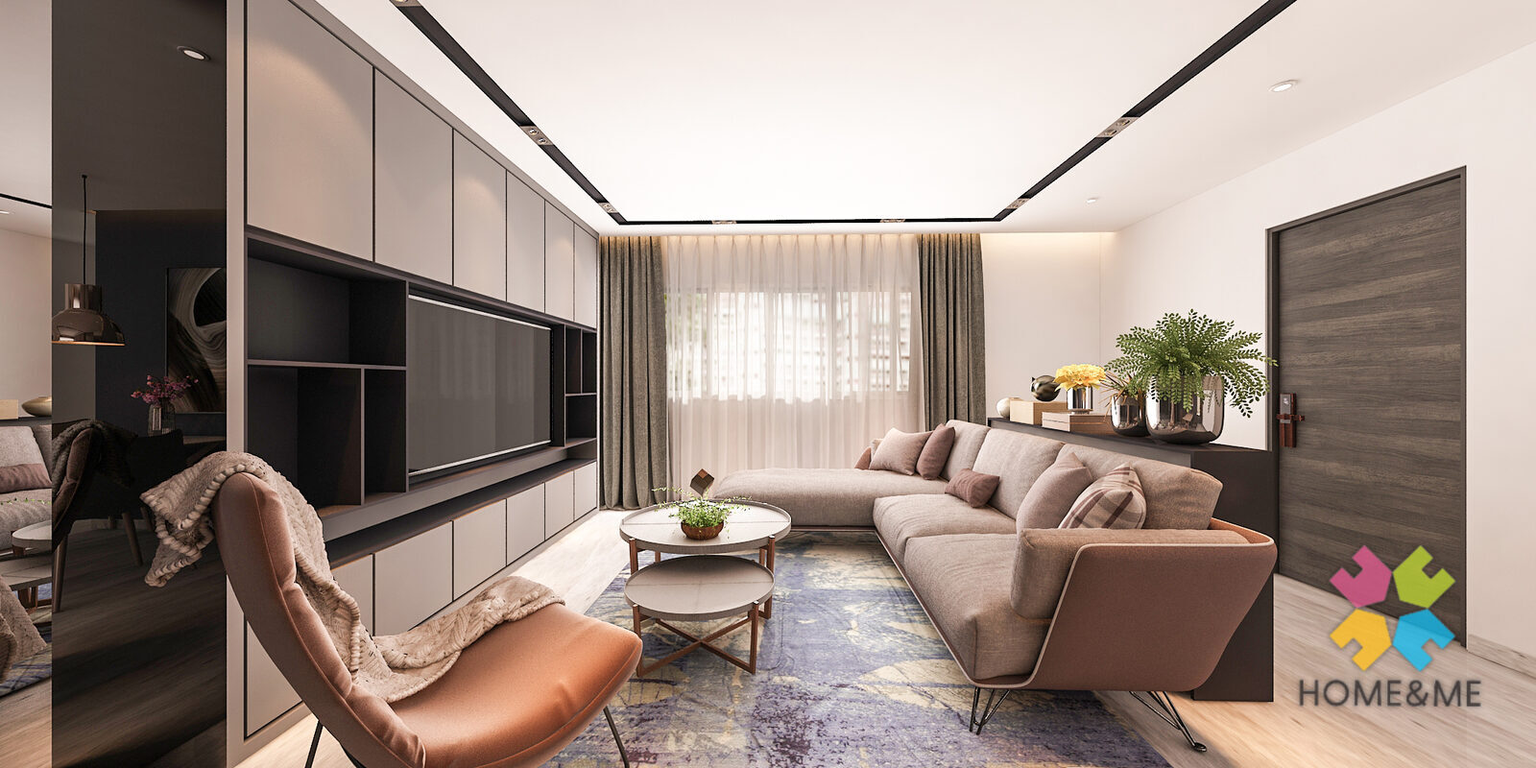
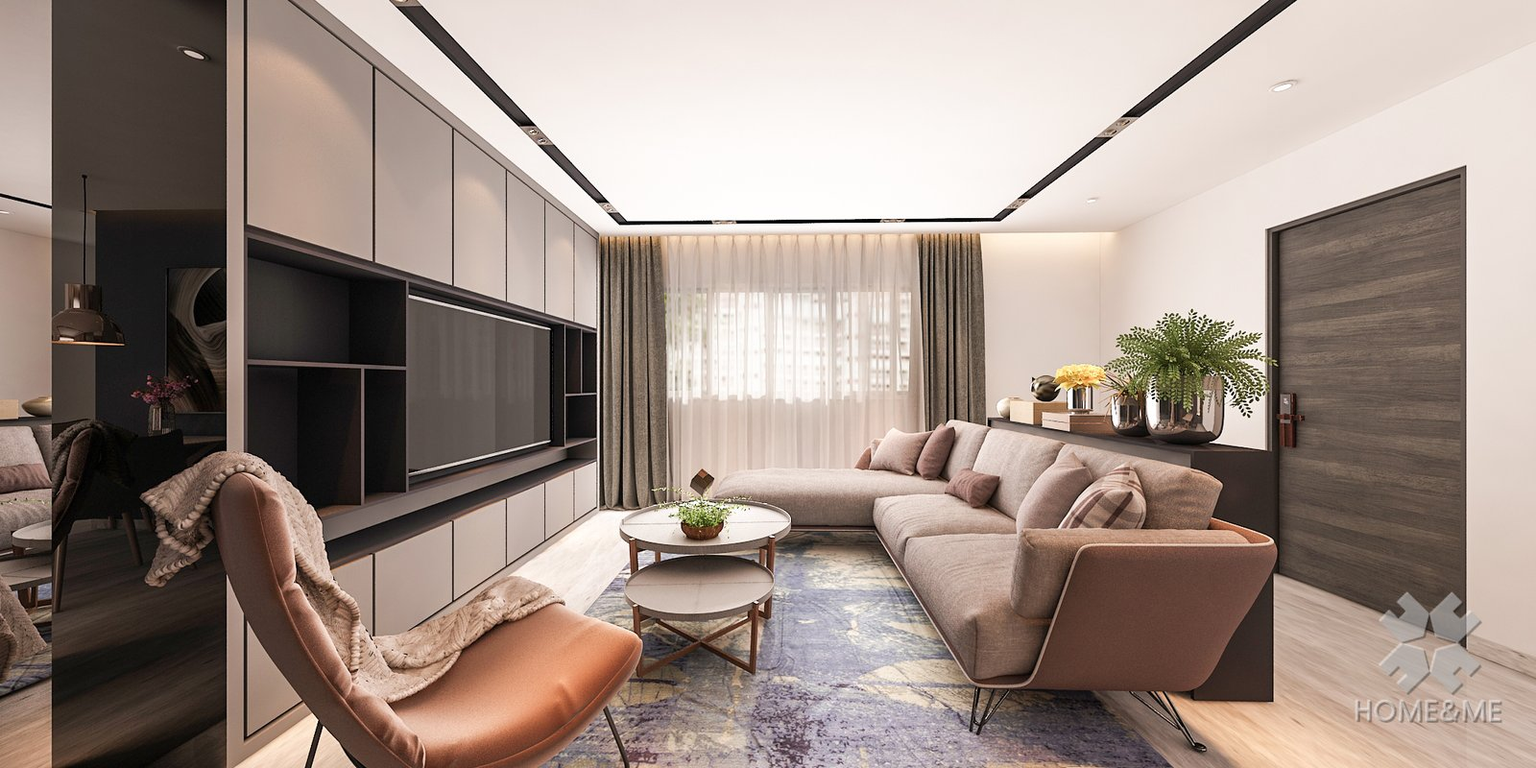
Owner-approved survey fixes: monochrome watermark re-exports, clean bright hero, edited portfolio grid, phone CTA fix, scroll-built quote (no prices)
- All 27 project renders re-exported from the clean originals with the
  HOME&ME mark in monochrome white (owner: logo colours stay rainbow only
  in the logo itself; photos carry a black-and-white mark).
- Homepage banner: new clean hero export (no mark, no lit TV) from the
  Minimalist 5-room living hall, left-scrim gradient for the headline.
- Our Work: masonry replaced with an edited grid — three featured projects
  at twice the width, labels overlay the photo, lightbox unchanged.
- Phone: floating UPLOAD pill removed (tab bar is the one CTA), footer
  cleared above the tab bar, trades ticker slowed.
- New section 03: an itemised quote that assembles line by line on scroll,
  each line naming the trade — deliberately WITHOUT prices; copy explains
  prices arrive in the personal quote (owner instruction).
- How-it-works steps tick active as you scroll past them.

Claude-Session: https://claude.ai/code/session_01VizHzKSGzcaXzW7CxuiNko

Changed region(s): [[0.8438, 0.7188, 1.0, 0.9375]]

diff --git a/Home Direct.dc.html b/Home Direct.dc.html
@@ -34,9 +34,23 @@ a { color: #14191b; text-decoration: none; } a:hover { color: #5a7e8a; }
 @media (max-width: 1100px) { [data-masonry] { column-count: 2 !important; } }
 @media (max-width: 700px) {
   [data-herofoot] { grid-template-columns: 1fr !important; }
-  [data-mobilecta] { display: flex !important; }
   [data-tabbar] { display: grid !important; }
-  [data-masonry] { column-count: 1 !important; }
+  footer { padding-bottom: 96px !important; }
+}
+[data-workgrid] { display: grid; grid-template-columns: repeat(6, 1fr); gap: 20px; grid-auto-flow: dense; }
+[data-tile] { grid-column: span 2; }
+[data-tile][data-span="feat"] { grid-column: span 4; }
+@media (max-width: 1100px) {
+  [data-tile] { grid-column: span 3 !important; }
+  [data-tile][data-span="feat"] { grid-column: span 6 !important; }
+}
+@media (max-width: 700px) {
+  [data-tile] { grid-column: span 6 !important; }
+}
+@media (hover: hover) {
+  [data-cap] { opacity: 0; transform: translateY(6px); }
+  [data-tile]:hover [data-cap] { opacity: 1; transform: none; }
+  [data-tile]:focus-within [data-cap] { opacity: 1; transform: none; }
 }
 </style>
 </helmet>
@@ -74,8 +88,9 @@ a { color: #14191b; text-decoration: none; } a:hover { color: #5a7e8a; }
   </sc-if>
 
   <section id="top" style="position: relative; min-height: min(94vh, 940px); background: #14191b; overflow: hidden; display: flex; flex-direction: column; justify-content: flex-end;">
-    <img src="assets/portfolio/contemporary-3-room-hdb-design-01-living-hall.jpg" alt="Home &amp; Me living and dining project" style="position: absolute; inset: 0; width: 100%; height: 100%; object-fit: cover; opacity: 0.62;">
-    <div style="position: absolute; inset: 0; background: linear-gradient(102deg, rgba(20,25,27,0.95) 0%, rgba(20,25,27,0.78) 38%, rgba(20,25,27,0.22) 78%, rgba(20,25,27,0.35) 100%);"></div>
+    <img src="assets/portfolio/hero-minimalist-living.jpg" alt="Minimalist 5-room HDB living hall — a Home &amp; Me project" style="position: absolute; inset: 0; width: 100%; height: 100%; object-fit: cover; opacity: 0.96;">
+    <div style="position: absolute; inset: 0; background: linear-gradient(96deg, rgba(20,25,27,0.92) 0%, rgba(20,25,27,0.78) 34%, rgba(20,25,27,0.34) 62%, rgba(20,25,27,0.1) 100%);"></div>
+    <div style="position: absolute; inset: auto 0 0 0; height: 46%; background: linear-gradient(to top, rgba(20,25,27,0.82), rgba(20,25,27,0));"></div>
     <div style="position: relative; max-width: 1360px; width: 100%; margin: 0 auto; padding: 168px clamp(16px, 4vw, 44px) 0; box-sizing: border-box;">
       <p style="font-family: 'Oswald', sans-serif; font-size: 11px; letter-spacing: 3.8px; color: #a9c4cc; margin: 0 0 30px; display: flex; align-items: center; gap: 14px;"><span style="width: 44px; height: 1px; background: #a9c4cc;"></span>DIRECT CONTRACTOR RENOVATION · SINGAPORE</p>
       <h1 style="font-family: 'Instrument Serif', Georgia, serif; font-weight: 400; font-size: clamp(44px, 8.2vw, 112px); line-height: 0.97; letter-spacing: -1.5px; margin: 0 0 28px; color: #f6f4ef; max-width: 15ch; animation: hnmRise 1s ease both;">Quoted by the people <em style="font-style: italic; color: #a9c4cc;">doing the work.</em></h1>
@@ -85,7 +100,7 @@ a { color: #14191b; text-decoration: none; } a:hover { color: #5a7e8a; }
         <a href="#how" style="font-family: 'Oswald', sans-serif; letter-spacing: 2.4px; font-size: 13px; color: #f6f4ef; border: 1px solid rgba(246,244,239,0.38); padding: 19px 32px; border-radius: 999px;" style-hover="border-color: #f6f4ef; background: rgba(246,244,239,0.1);">HOW IT WORKS</a>
       </div>
     </div>
-    <div data-herofoot="1" style="position: relative; max-width: 1360px; width: 100%; margin: 0 auto; padding: 64px clamp(16px, 4vw, 44px) 40px; box-sizing: border-box; display: grid; grid-template-columns: repeat(3, 1fr); gap: 1px; background: rgba(246,244,239,0.16);">
+    <div data-herofoot="1" style="position: relative; max-width: 1360px; width: 100%; margin: 0 auto; padding: 64px clamp(16px, 4vw, 44px) 40px; box-sizing: border-box; display: grid; grid-template-columns: repeat(3, 1fr); gap: 1px;">
       <sc-for list="{{ proof }}" as="p" hint-placeholder-count="3">
         <div style="background: #14191b; padding: 26px 24px 4px; display: flex; flex-direction: column; gap: 9px;">
           <span style="font-family: 'Instrument Serif', Georgia, serif; font-size: 30px; line-height: 1; color: #f6f4ef;">{{ p.head }}</span>
@@ -96,7 +111,7 @@ a { color: #14191b; text-decoration: none; } a:hover { color: #5a7e8a; }
   </section>
 
   <div style="background: #5a7e8a; overflow: hidden; padding: 15px 0; border-bottom: 1px solid rgba(20,25,27,0.12);">
-    <div data-marquee="1" style="display: flex; width: max-content; animation: hnmMarquee 44s linear infinite;">
+    <div data-marquee="1" style="display: flex; width: max-content; animation: hnmMarquee 62s linear infinite;">
       <sc-for list="{{ tickerRows }}" as="row" hint-placeholder-count="2">
         <div style="display: flex; align-items: center; gap: 34px; padding-right: 34px;">
           <sc-for list="{{ row.items }}" as="t" hint-placeholder-count="12">
@@ -182,8 +197,8 @@ a { color: #14191b; text-decoration: none; } a:hover { color: #5a7e8a; }
       </div>
       <div style="display: grid; grid-template-columns: repeat(auto-fit, minmax(232px, 1fr)); gap: 1px; background: rgba(20,25,27,0.13); border-top: 1px solid rgba(20,25,27,0.13);">
         <sc-for list="{{ how }}" as="s" hint-placeholder-count="5">
-          <div data-reveal="1" style="background: #fdfcfa; padding: 28px 22px 34px; display: flex; flex-direction: column; gap: 12px; border-bottom: 1px solid rgba(20,25,27,0.13);">
-            <span style="font-family: 'Instrument Serif', Georgia, serif; font-size: 42px; line-height: 1; color: #5a7e8a;">{{ s.no }}</span>
+          <div data-reveal="1" data-howcard="{{ s.i }}" style="background: #fdfcfa; padding: 28px 22px 34px; display: flex; flex-direction: column; gap: 12px; border-bottom: 2px solid {{ s.edge }}; transition: border-color 0.6s ease;">
+            <span style="font-family: 'Instrument Serif', Georgia, serif; font-size: 42px; line-height: 1; color: {{ s.numFg }}; transition: color 0.6s ease;">{{ s.no }}</span>
             <span style="font-family: 'Oswald', sans-serif; font-size: 13.5px; letter-spacing: 1.8px; color: #14191b;">{{ s.title }}</span>
             <span style="font-size: 14.5px; line-height: 1.62; color: #4a5350; text-wrap: pretty;">{{ s.body }}</span>
           </div>
@@ -196,13 +211,46 @@ a { color: #14191b; text-decoration: none; } a:hover { color: #5a7e8a; }
     </div>
   </section>
 
+  <section id="quote" style="background: #14191b; color: #f6f4ef; padding: clamp(60px, 9vw, 124px) clamp(16px, 4vw, 44px); scroll-margin-top: 78px;">
+    <div data-two="1" style="max-width: 1360px; margin: 0 auto; display: grid; grid-template-columns: 0.9fr 1.1fr; gap: clamp(30px, 5vw, 76px);">
+      <div data-sticky="1" style="position: sticky; top: 130px; align-self: start; min-width: 0;">
+        <span style="font-family: 'Instrument Serif', Georgia, serif; font-size: clamp(64px, 8vw, 104px); line-height: 0.85; color: rgba(246,244,239,0.16); display: block; margin-bottom: 18px;">03</span>
+        <p style="font-family: 'Oswald', sans-serif; font-size: 11px; letter-spacing: 3.6px; color: #a9c4cc; margin: 0 0 20px;">WHAT YOU'LL RECEIVE</p>
+        <h2 style="font-family: 'Instrument Serif', Georgia, serif; font-weight: 400; font-size: clamp(30px, 4.4vw, 54px); line-height: 1.06; letter-spacing: -0.6px; margin: 0 0 20px;">Watch your quote build itself.</h2>
+        <p style="font-size: 16.5px; line-height: 1.68; color: rgba(246,244,239,0.72); margin: 0; max-width: 44ch; text-wrap: pretty;">Keep scrolling — each line of an itemised quote arrives with the trade doing that work named against it. This is the format every Home &amp; Me quote takes.</p>
+        <div style="margin-top: 30px; max-width: 340px;">
+          <p style="font-family: 'Oswald', sans-serif; font-size: 11px; letter-spacing: 2.6px; color: #a9c4cc; margin: 0 0 12px;">{{ qCount }}</p>
+          <div style="height: 2px; background: rgba(246,244,239,0.16); border-radius: 2px; overflow: hidden;">
+            <div style="height: 100%; width: {{ qBar }}; background: #a9c4cc; transition: width 0.7s ease;"></div>
+          </div>
+        </div>
+      </div>
+      <div style="min-width: 0;">
+        <sc-for list="{{ qlines }}" as="l" hint-placeholder-count="5">
+          <div data-qline="{{ l.i }}" style="border-left: 2px solid {{ l.edge }}; opacity: {{ l.op }}; transform: {{ l.ty }}; transition: opacity 0.7s ease, transform 0.7s ease, border-color 0.7s ease; padding: 22px 0 22px 24px; border-bottom: 1px solid rgba(246,244,239,0.12); display: grid; gap: 7px;">
+            <div style="display: flex; justify-content: space-between; gap: 14px; align-items: baseline; flex-wrap: wrap;">
+              <span style="font-family: 'Oswald', sans-serif; font-size: 13.5px; letter-spacing: 2px; color: #f6f4ef;">{{ l.trade }}</span>
+              <span style="font-family: 'Oswald', sans-serif; font-size: 10px; letter-spacing: 2px; color: #a9c4cc; border: 1px solid rgba(169,196,204,0.4); border-radius: 999px; padding: 5px 11px; white-space: nowrap;">{{ l.who }}</span>
+            </div>
+            <span style="font-size: 14.5px; line-height: 1.6; color: rgba(246,244,239,0.66);">{{ l.scope }}</span>
+          </div>
+        </sc-for>
+        <div style="margin-top: 26px; border: 1px solid rgba(169,196,204,0.35); border-radius: 5px; padding: 26px 26px 30px; background: linear-gradient(150deg, rgba(90,126,138,0.16), rgba(90,126,138,0.04)); opacity: {{ qDoneOp }}; transition: opacity 0.8s ease;">
+          <p style="font-size: 16.5px; line-height: 1.6; color: #f6f4ef; margin: 0 0 10px;">Every line arrives priced — in your quote, not on this page.</p>
+          <p style="font-size: 14.5px; line-height: 1.66; color: rgba(246,244,239,0.66); margin: 0 0 22px; text-wrap: pretty;">An honest number depends on your unit, its condition and your materials, so we don't publish rates that would be wrong for you. Upload your floor plan and the contractor prices these exact lines for your flat — free, and itemised.</p>
+          <a href="Renovation%20Enquiry.dc.html" style="font-family: 'Oswald', sans-serif; letter-spacing: 2.4px; font-size: 12.5px; background: #f6f4ef; color: #14191b; padding: 16px 30px; border-radius: 999px; display: inline-block;" style-hover="background: #5a7e8a; color: #fff;">GET MY ITEMISED QUOTE</a>
+        </div>
+      </div>
+    </div>
+  </section>
+
   <section id="portfolio" style="padding: clamp(60px, 9vw, 120px) 0 clamp(56px, 8vw, 104px); scroll-margin-top: 78px;">
     <div data-reveal="1" style="max-width: 1360px; margin: 0 auto; padding: 0 clamp(16px, 4vw, 44px) clamp(30px, 4vw, 46px); display: flex; align-items: flex-end; justify-content: space-between; gap: 28px; flex-wrap: wrap;">
       <div style="max-width: 640px;">
-        <span style="font-family: 'Instrument Serif', Georgia, serif; font-size: clamp(64px, 8vw, 104px); line-height: 0.85; color: rgba(20,25,27,0.14); display: block; margin-bottom: 18px;">03</span>
+        <span style="font-family: 'Instrument Serif', Georgia, serif; font-size: clamp(64px, 8vw, 104px); line-height: 0.85; color: rgba(20,25,27,0.14); display: block; margin-bottom: 18px;">04</span>
         <p style="font-family: 'Oswald', sans-serif; font-size: 11px; letter-spacing: 3.6px; color: #5a7e8a; margin: 0 0 20px;">OUR WORK</p>
         <h2 style="font-family: 'Instrument Serif', Georgia, serif; font-weight: 400; font-size: clamp(30px, 4.4vw, 54px); line-height: 1.06; letter-spacing: -0.6px; margin: 0 0 16px;">The work we have done.</h2>
-        <p style="font-size: 16px; line-height: 1.66; color: #4a5350; margin: 0; max-width: 48ch; text-wrap: pretty;">Home &amp; Me projects, by room. Click any one to see it full size — or start your enquiry in that style straight from the caption.</p>
+        <p style="font-size: 16px; line-height: 1.66; color: #4a5350; margin: 0; max-width: 48ch; text-wrap: pretty;">Home &amp; Me projects, by room. Click any one to see it full size and start your enquiry in that exact style.</p>
       </div>
       <span style="font-family: 'Oswald', sans-serif; font-size: 11px; letter-spacing: 2.6px; color: #8a908c; border: 1px solid rgba(20,25,27,0.2); border-radius: 999px; padding: 10px 18px;">{{ galleryCount }}</span>
     </div>
@@ -212,17 +260,16 @@ a { color: #14191b; text-decoration: none; } a:hover { color: #5a7e8a; }
           <button type="button" onClick="{{ c.pick }}" style="cursor: pointer; font-family: 'Oswald', sans-serif; font-size: 11px; letter-spacing: 2.2px; padding: 11px 19px; border-radius: 999px; background: {{ c.bg }}; color: {{ c.fg }}; border: 1px solid {{ c.border }};">{{ c.label }}</button>
         </sc-for>
       </div>
-      <div data-masonry="1" style="column-count: 3; column-gap: 20px;">
+      <div data-workgrid="1">
         <sc-for list="{{ gallery }}" as="g" hint-placeholder-count="6">
-          <div style="break-inside: avoid; margin: 0 0 20px; border: 1px solid rgba(20,25,27,0.13); border-radius: 5px; overflow: hidden; background: #fdfcfa;">
-            <button type="button" onClick="{{ g.open }}" title="View full size" style="display: block; width: 100%; padding: 0; border: none; background: #e7e2d8; cursor: zoom-in; overflow: hidden; line-height: 0;">{{ g.photo }}</button>
-            <div style="padding: 15px 17px 17px; display: flex; align-items: baseline; justify-content: space-between; gap: 12px; flex-wrap: wrap;">
-              <span style="display: flex; flex-direction: column; gap: 5px; min-width: 0;">
-                <span style="font-family: 'Oswald', sans-serif; font-size: 12.5px; letter-spacing: 1.8px; color: #14191b;">{{ g.room }}</span>
-                <span style="font-size: 13px; color: #8a908c;">{{ g.style }}</span>
+          <div data-tile="1" data-span="{{ g.span }}" style="border: 1px solid rgba(20,25,27,0.13); border-radius: 5px; overflow: hidden; background: #fdfcfa; min-width: 0;">
+            <button type="button" onClick="{{ g.open }}" title="View full size" style="display: block; position: relative; width: 100%; height: 100%; min-height: 100%; aspect-ratio: 2 / 1; padding: 0; border: none; background: #e7e2d8; cursor: zoom-in; overflow: hidden; line-height: 0;">
+              {{ g.photo }}
+              <span data-cap="1" style="position: absolute; inset: auto 0 0 0; padding: 44px 16px 13px; background: linear-gradient(to top, rgba(20,25,27,0.8), rgba(20,25,27,0)); display: flex; align-items: baseline; justify-content: space-between; gap: 12px; line-height: 1.4; transition: opacity 0.45s ease, transform 0.45s ease; text-align: left;">
+                <span style="font-family: 'Oswald', sans-serif; font-size: 12px; letter-spacing: 1.8px; color: #f6f4ef;">{{ g.room }}</span>
+                <span style="font-size: 12.5px; color: rgba(246,244,239,0.78); white-space: nowrap;">{{ g.style }}</span>
               </span>
-              <a sc-camel-href="{{ g.href }}" style="font-family: 'Oswald', sans-serif; font-size: 10px; letter-spacing: 2px; color: #5a7e8a; white-space: nowrap;" style-hover="color: #14191b;">START THIS STYLE →</a>
-            </div>
+            </button>
           </div>
         </sc-for>
       </div>
@@ -232,7 +279,7 @@ a { color: #14191b; text-decoration: none; } a:hover { color: #5a7e8a; }
   <section id="coordinator" style="background: #14191b; color: #f6f4ef; padding: clamp(60px, 9vw, 124px) clamp(16px, 4vw, 44px); scroll-margin-top: 78px;">
     <div data-two="1" style="max-width: 1360px; margin: 0 auto; display: grid; grid-template-columns: 1.08fr 0.92fr; gap: clamp(32px, 5vw, 70px); align-items: center;">
       <div data-reveal="1" style="min-width: 0;">
-        <span style="font-family: 'Instrument Serif', Georgia, serif; font-size: clamp(64px, 8vw, 104px); line-height: 0.85; color: rgba(246,244,239,0.16); display: block; margin-bottom: 18px;">04</span>
+        <span style="font-family: 'Instrument Serif', Georgia, serif; font-size: clamp(64px, 8vw, 104px); line-height: 0.85; color: rgba(246,244,239,0.16); display: block; margin-bottom: 18px;">05</span>
         <p style="font-family: 'Oswald', sans-serif; font-size: 11px; letter-spacing: 3.6px; color: #a9c4cc; margin: 0 0 20px;">OPTIONAL ADD-ON</p>
         <h2 style="font-family: 'Instrument Serif', Georgia, serif; font-weight: 400; font-size: clamp(30px, 4.4vw, 54px); line-height: 1.06; letter-spacing: -0.6px; margin: 0 0 20px;">Hire a project coordinator.</h2>
         <p style="font-size: 16.5px; line-height: 1.68; color: rgba(246,244,239,0.72); margin: 0 0 30px; max-width: 46ch; text-wrap: pretty;">Going direct means you hold the schedule. If you would rather not, one of ours holds it — and you still see the contractor's own quote.</p>
@@ -269,7 +316,7 @@ a { color: #14191b; text-decoration: none; } a:hover { color: #5a7e8a; }
   <section id="faq" style="padding: clamp(60px, 9vw, 120px) clamp(16px, 4vw, 44px); scroll-margin-top: 78px;">
     <div style="max-width: 1360px; margin: 0 auto;">
       <div data-reveal="1" style="margin-bottom: clamp(32px, 4vw, 52px);">
-        <span style="font-family: 'Instrument Serif', Georgia, serif; font-size: clamp(64px, 8vw, 104px); line-height: 0.85; color: rgba(20,25,27,0.14); display: block; margin-bottom: 18px;">05</span>
+        <span style="font-family: 'Instrument Serif', Georgia, serif; font-size: clamp(64px, 8vw, 104px); line-height: 0.85; color: rgba(20,25,27,0.14); display: block; margin-bottom: 18px;">06</span>
         <p style="font-family: 'Oswald', sans-serif; font-size: 11px; letter-spacing: 3.6px; color: #5a7e8a; margin: 0 0 20px;">STRAIGHT ANSWERS</p>
         <h2 style="font-family: 'Instrument Serif', Georgia, serif; font-weight: 400; font-size: clamp(30px, 4.4vw, 54px); line-height: 1.06; letter-spacing: -0.6px; margin: 0;">The questions everyone asks.</h2>
       </div>
@@ -352,10 +399,6 @@ a { color: #14191b; text-decoration: none; } a:hover { color: #5a7e8a; }
     </div>
   </sc-if>
 
-  <div data-mobilecta="1" style="display: none; position: fixed; left: 12px; right: 12px; bottom: calc(81px + env(safe-area-inset-bottom, 0px)); z-index: 65; gap: 10px;">
-    <a href="Renovation%20Enquiry.dc.html" style="flex: 1; text-align: center; background: #14191b; color: #f6f4ef; font-family: 'Oswald', sans-serif; font-size: 12px; letter-spacing: 2.2px; padding: 18px; border-radius: 999px; box-shadow: 0 16px 34px -16px rgba(20,25,27,0.85);">UPLOAD FLOOR PLAN</a>
-  </div>
-
   <nav data-tabbar="1" style="display: none; position: fixed; left: 0; right: 0; bottom: 0; z-index: 66; background: rgba(255,255,255,0.96); backdrop-filter: blur(16px); border-top: 1px solid rgba(20,25,27,0.1); padding: 8px 6px calc(8px + env(safe-area-inset-bottom, 0px)); grid-template-columns: repeat(4, 1fr);">
     <span style="display: flex; flex-direction: column; align-items: center; gap: 5px; padding: 6px 0; color: #5a7e8a;">{{ iconHome }}<span style="font-family: 'Oswald', sans-serif; font-size: 9.5px; letter-spacing: 1.4px;">HOME</span></span>
     <a href="#portfolio" style="display: flex; flex-direction: column; align-items: center; gap: 5px; padding: 6px 0; color: #8a908c;">{{ iconWork }}<span style="font-family: 'Oswald', sans-serif; font-size: 9.5px; letter-spacing: 1.4px;">OUR WORK</span></a>
@@ -376,18 +419,19 @@ const ICONS = {
   chat: 'M21 11.5a8.4 8.4 0 0 1-9 8.5 9 9 0 0 1-3.9-.9L3 21l1.9-4.6A8.4 8.4 0 0 1 4 11.5 8.5 8.5 0 0 1 12.5 3 8.5 8.5 0 0 1 21 11.5z',
 };
 
-// Completed-work gallery. Every file on this page appears exactly once: the hero holds
-// living-classic-bright, the coordinator section holds family-lounge, and these 18 are the
-// gallery. No image is shown twice anywhere on the page.
+// Completed-work gallery. The hero holds its own clean export (hero-minimalist-living,
+// the one image on the page without the corner mark); the coordinator section holds
+// contemporary-4-room design-02; these 25 are the gallery. Three carry featured: true
+// and render at a larger tile so the grid reads as an edited portfolio, not a catalogue.
 const ROOMS = ['ALL', 'LIVING & DINING', 'KITCHEN', 'BEDROOM', 'BATHROOM'];
 const WORK = [
   { file: 'portfolio/contemporary-3-room-hdb-design-01-living-hall.jpg', room: 'LIVING & DINING', style: 'CONTEMPORARY', styleId: 'contemporary' },
   { file: 'portfolio/contemporary-3-room-hdb-design-01-kitchen.jpg', room: 'KITCHEN', style: 'CONTEMPORARY', styleId: 'contemporary' },
   { file: 'portfolio/contemporary-3-room-hdb-design-01-master-bedroom.jpg', room: 'BEDROOM', style: 'CONTEMPORARY', styleId: 'contemporary' },
-  { file: 'portfolio/modern-classic-3-room-hdb-design-01-living-hall.jpg', room: 'LIVING & DINING', style: 'MODERN CLASSIC', styleId: 'modern-classic' },
+  { file: 'portfolio/modern-classic-3-room-hdb-design-01-living-hall.jpg', room: 'LIVING & DINING', style: 'MODERN CLASSIC', styleId: 'modern-classic', featured: true },
   { file: 'portfolio/modern-classic-3-room-hdb-design-01-kitchen.jpg', room: 'KITCHEN', style: 'MODERN CLASSIC', styleId: 'modern-classic' },
   { file: 'portfolio/modern-classic-3-room-hdb-design-02-master-bedroom.jpg', room: 'BEDROOM', style: 'MODERN CLASSIC', styleId: 'modern-classic' },
-  { file: 'portfolio/muji-5-room-hdb-design-02-living-hall.jpg', room: 'LIVING & DINING', style: 'MUJI / WABI-SABI', styleId: 'muji' },
+  { file: 'portfolio/muji-5-room-hdb-design-02-living-hall.jpg', room: 'LIVING & DINING', style: 'MUJI / WABI-SABI', styleId: 'muji', featured: true },
   { file: 'portfolio/muji-3-room-hdb-design-01-kitchen.jpg', room: 'KITCHEN', style: 'MUJI / WABI-SABI', styleId: 'muji' },
   { file: 'portfolio/muji-5-room-hdb-design-01-master-bedroom.jpg', room: 'BEDROOM', style: 'MUJI / WABI-SABI', styleId: 'muji' },
   { file: 'portfolio/modern-oriental-5-room-hdb-design-01-living-hall.jpg', room: 'LIVING & DINING', style: 'MODERN ORIENTAL', styleId: 'modern-oriental' },
@@ -396,7 +440,7 @@ const WORK = [
   { file: 'portfolio/minimalist-5-room-hdb-design-01-living-hall.jpg', room: 'LIVING & DINING', style: 'MINIMALIST', styleId: 'minimalist' },
   { file: 'portfolio/minimalist-5-room-hdb-design-01-kitchen.jpg', room: 'KITCHEN', style: 'MINIMALIST', styleId: 'minimalist' },
   { file: 'portfolio/minimalist-5-room-hdb-design-01-dining.jpg', room: 'LIVING & DINING', style: 'MINIMALIST', styleId: 'minimalist' },
-  { file: 'portfolio/industrial-4-room-hdb-design-01-living-hall.jpg', room: 'LIVING & DINING', style: 'INDUSTRIAL', styleId: 'industrial' },
+  { file: 'portfolio/industrial-4-room-hdb-design-01-living-hall.jpg', room: 'LIVING & DINING', style: 'INDUSTRIAL', styleId: 'industrial', featured: true },
   { file: 'portfolio/industrial-4-room-hdb-design-01-kitchen.jpg', room: 'KITCHEN', style: 'INDUSTRIAL', styleId: 'industrial' },
   { file: 'portfolio/industrial-4-room-hdb-design-01-master-bathroom.jpg', room: 'BATHROOM', style: 'INDUSTRIAL', styleId: 'industrial' },
   { file: 'portfolio/scandinavian-4-room-hdb-design-01-living-hall.jpg', room: 'LIVING & DINING', style: 'SCANDINAVIAN', styleId: 'scandinavian' },
@@ -409,7 +453,7 @@ const WORK = [
 ];
 
 class Component extends DCLogic {
-  state = { menuOpen: false, scrolled: false, progress: '0%', room: 'ALL', lb: null };
+  state = { menuOpen: false, scrolled: false, progress: '0%', room: 'ALL', lb: null, qSeen: 0, howOn: 0 };
 
   filtered() { return this.state.room === 'ALL' ? WORK : WORK.filter((w) => w.room === this.state.room); }
 
@@ -445,12 +489,47 @@ class Component extends DCLogic {
     };
     window.addEventListener('keydown', this._onKey);
     this.reveal();
+    this.watchSteps();
   }
 
   componentWillUnmount() {
     window.removeEventListener('scroll', this._onScroll);
     window.removeEventListener('keydown', this._onKey);
     if (this._io) this._io.disconnect();
+    if (this._qio) this._qio.disconnect();
+    if (this._hio) this._hio.disconnect();
+  }
+
+  // Quote lines and how-it-works steps activate as they enter the viewport. Monotonic:
+  // a step never de-activates, so fast scrolling and re-renders cannot make it flicker.
+  watchSteps() {
+    const reduced = window.matchMedia('(prefers-reduced-motion: reduce)').matches;
+    if (reduced || !('IntersectionObserver' in window)) {
+      this.setState({ qSeen: 5, howOn: 5 });
+      return;
+    }
+    const qlines = Array.prototype.slice.call(document.querySelectorAll('[data-qline]'));
+    if (qlines.length) {
+      this._qio = new IntersectionObserver((entries) => {
+        entries.forEach((e) => {
+          if (!e.isIntersecting) return;
+          const n = parseInt(e.target.getAttribute('data-qline'), 10) + 1;
+          if (n > this.state.qSeen) this.setState({ qSeen: n });
+        });
+      }, { rootMargin: '0px 0px -16% 0px', threshold: 0.45 });
+      qlines.forEach((el) => this._qio.observe(el));
+    }
+    const cards = Array.prototype.slice.call(document.querySelectorAll('[data-howcard]'));
+    if (cards.length) {
+      this._hio = new IntersectionObserver((entries) => {
+        entries.forEach((e) => {
+          if (!e.isIntersecting) return;
+          const n = parseInt(e.target.getAttribute('data-howcard'), 10) + 1;
+          if (n > this.state.howOn) this.setState({ howOn: n });
+        });
+      }, { rootMargin: '0px 0px -22% 0px', threshold: 0.5 });
+      cards.forEach((el) => this._hio.observe(el));
+    }
   }
 
   // Progressive enhancement: the markup ships visible, then JS hides and reveals on entry —
@@ -492,7 +571,7 @@ class Component extends DCLogic {
       src: 'assets/' + w.file, alt: w.style + ' ' + w.room.toLowerCase() + ' project',
       style: big
         ? { maxWidth: '100%', maxHeight: '78vh', objectFit: 'contain', display: 'block', borderRadius: '4px' }
-        : { width: '100%', height: 'auto', display: 'block', transition: 'transform 0.9s cubic-bezier(0.2,0.8,0.2,1)' },
+        : { width: '100%', height: '100%', objectFit: 'cover', display: 'block', transition: 'transform 0.9s cubic-bezier(0.2,0.8,0.2,1)' },
       onMouseEnter: big ? null : (e) => { e.currentTarget.style.transform = 'scale(1.05)'; },
       onMouseLeave: big ? null : (e) => { e.currentTarget.style.transform = 'none'; },
     });
@@ -563,7 +642,22 @@ class Component extends DCLogic {
         { no: '03', title: 'AREAS', body: 'Whole house, or just the master bath. Only what you pick gets quoted.' },
         { no: '04', title: 'SCOPE OF WORKS', body: 'Tick the trades per room — hacking, tiling, painting, carpentry, plumbing and the rest. Unsure? Leave it for the walkthrough.' },
         { no: '05', title: 'REVIEW & SEND', body: 'Review the enquiry and press send — it lands with our team instantly, with an email copy, and we reply on WhatsApp the same day.' },
-      ],
+      ].map((s, i) => ({ ...s, i: String(i),
+        numFg: i < this.state.howOn ? '#5a7e8a' : 'rgba(90,126,138,0.32)',
+        edge: i < this.state.howOn ? '#5a7e8a' : 'rgba(20,25,27,0.13)' })),
+      qlines: [
+        { trade: 'HACKING & REMOVAL', who: 'DEMOLITION TEAM', scope: 'Old tiles, built-ins and the existing kitchen come out — cleared and hauled away.' },
+        { trade: 'MASONRY & TILING', who: 'TILER', scope: 'Screed and waterproofing first, then your chosen tiles — laid, levelled and grouted.' },
+        { trade: 'ELECTRICAL & PLUMBING', who: 'ELECTRICIAN · PLUMBER', scope: 'New points and lighting circuits; basin, WC and heater set to your layout.' },
+        { trade: 'CARPENTRY', who: 'CARPENTER', scope: 'Wardrobes, kitchen cabinets and the TV console, measured to your walls.' },
+        { trade: 'PAINTING & FINISHING', who: 'PAINTER', scope: 'Sealing, two coats through the whole unit, and the final touch-up walk-through.' },
+      ].map((l, i) => ({ ...l, i: String(i),
+        op: i < this.state.qSeen ? '1' : '0.28',
+        ty: i < this.state.qSeen ? 'none' : 'translateY(14px)',
+        edge: i < this.state.qSeen ? '#a9c4cc' : 'rgba(246,244,239,0.18)' })),
+      qCount: this.state.qSeen + ' OF 5 TRADES ON YOUR QUOTE',
+      qBar: (this.state.qSeen / 5 * 100) + '%',
+      qDoneOp: this.state.qSeen >= 5 ? '1' : '0.35',
       chips: ROOMS.map((r) => {
         const on = this.state.room === r;
         const count = r === 'ALL' ? WORK.length : WORK.filter((w) => w.room === r).length;
@@ -571,7 +665,7 @@ class Component extends DCLogic {
           bg: on ? '#14191b' : 'transparent', fg: on ? '#f6f4ef' : '#4a5350', border: on ? '#14191b' : 'rgba(20,25,27,0.22)' };
       }),
       gallery: list.map((w, i) => ({
-        room: w.room, style: w.style,
+        room: w.room, style: w.style, span: w.featured ? 'feat' : 'std',
         href: 'Renovation%20Enquiry.dc.html#style=' + w.styleId,
         photo: this.photo(w, false), open: this.openLb(i),
       })),
